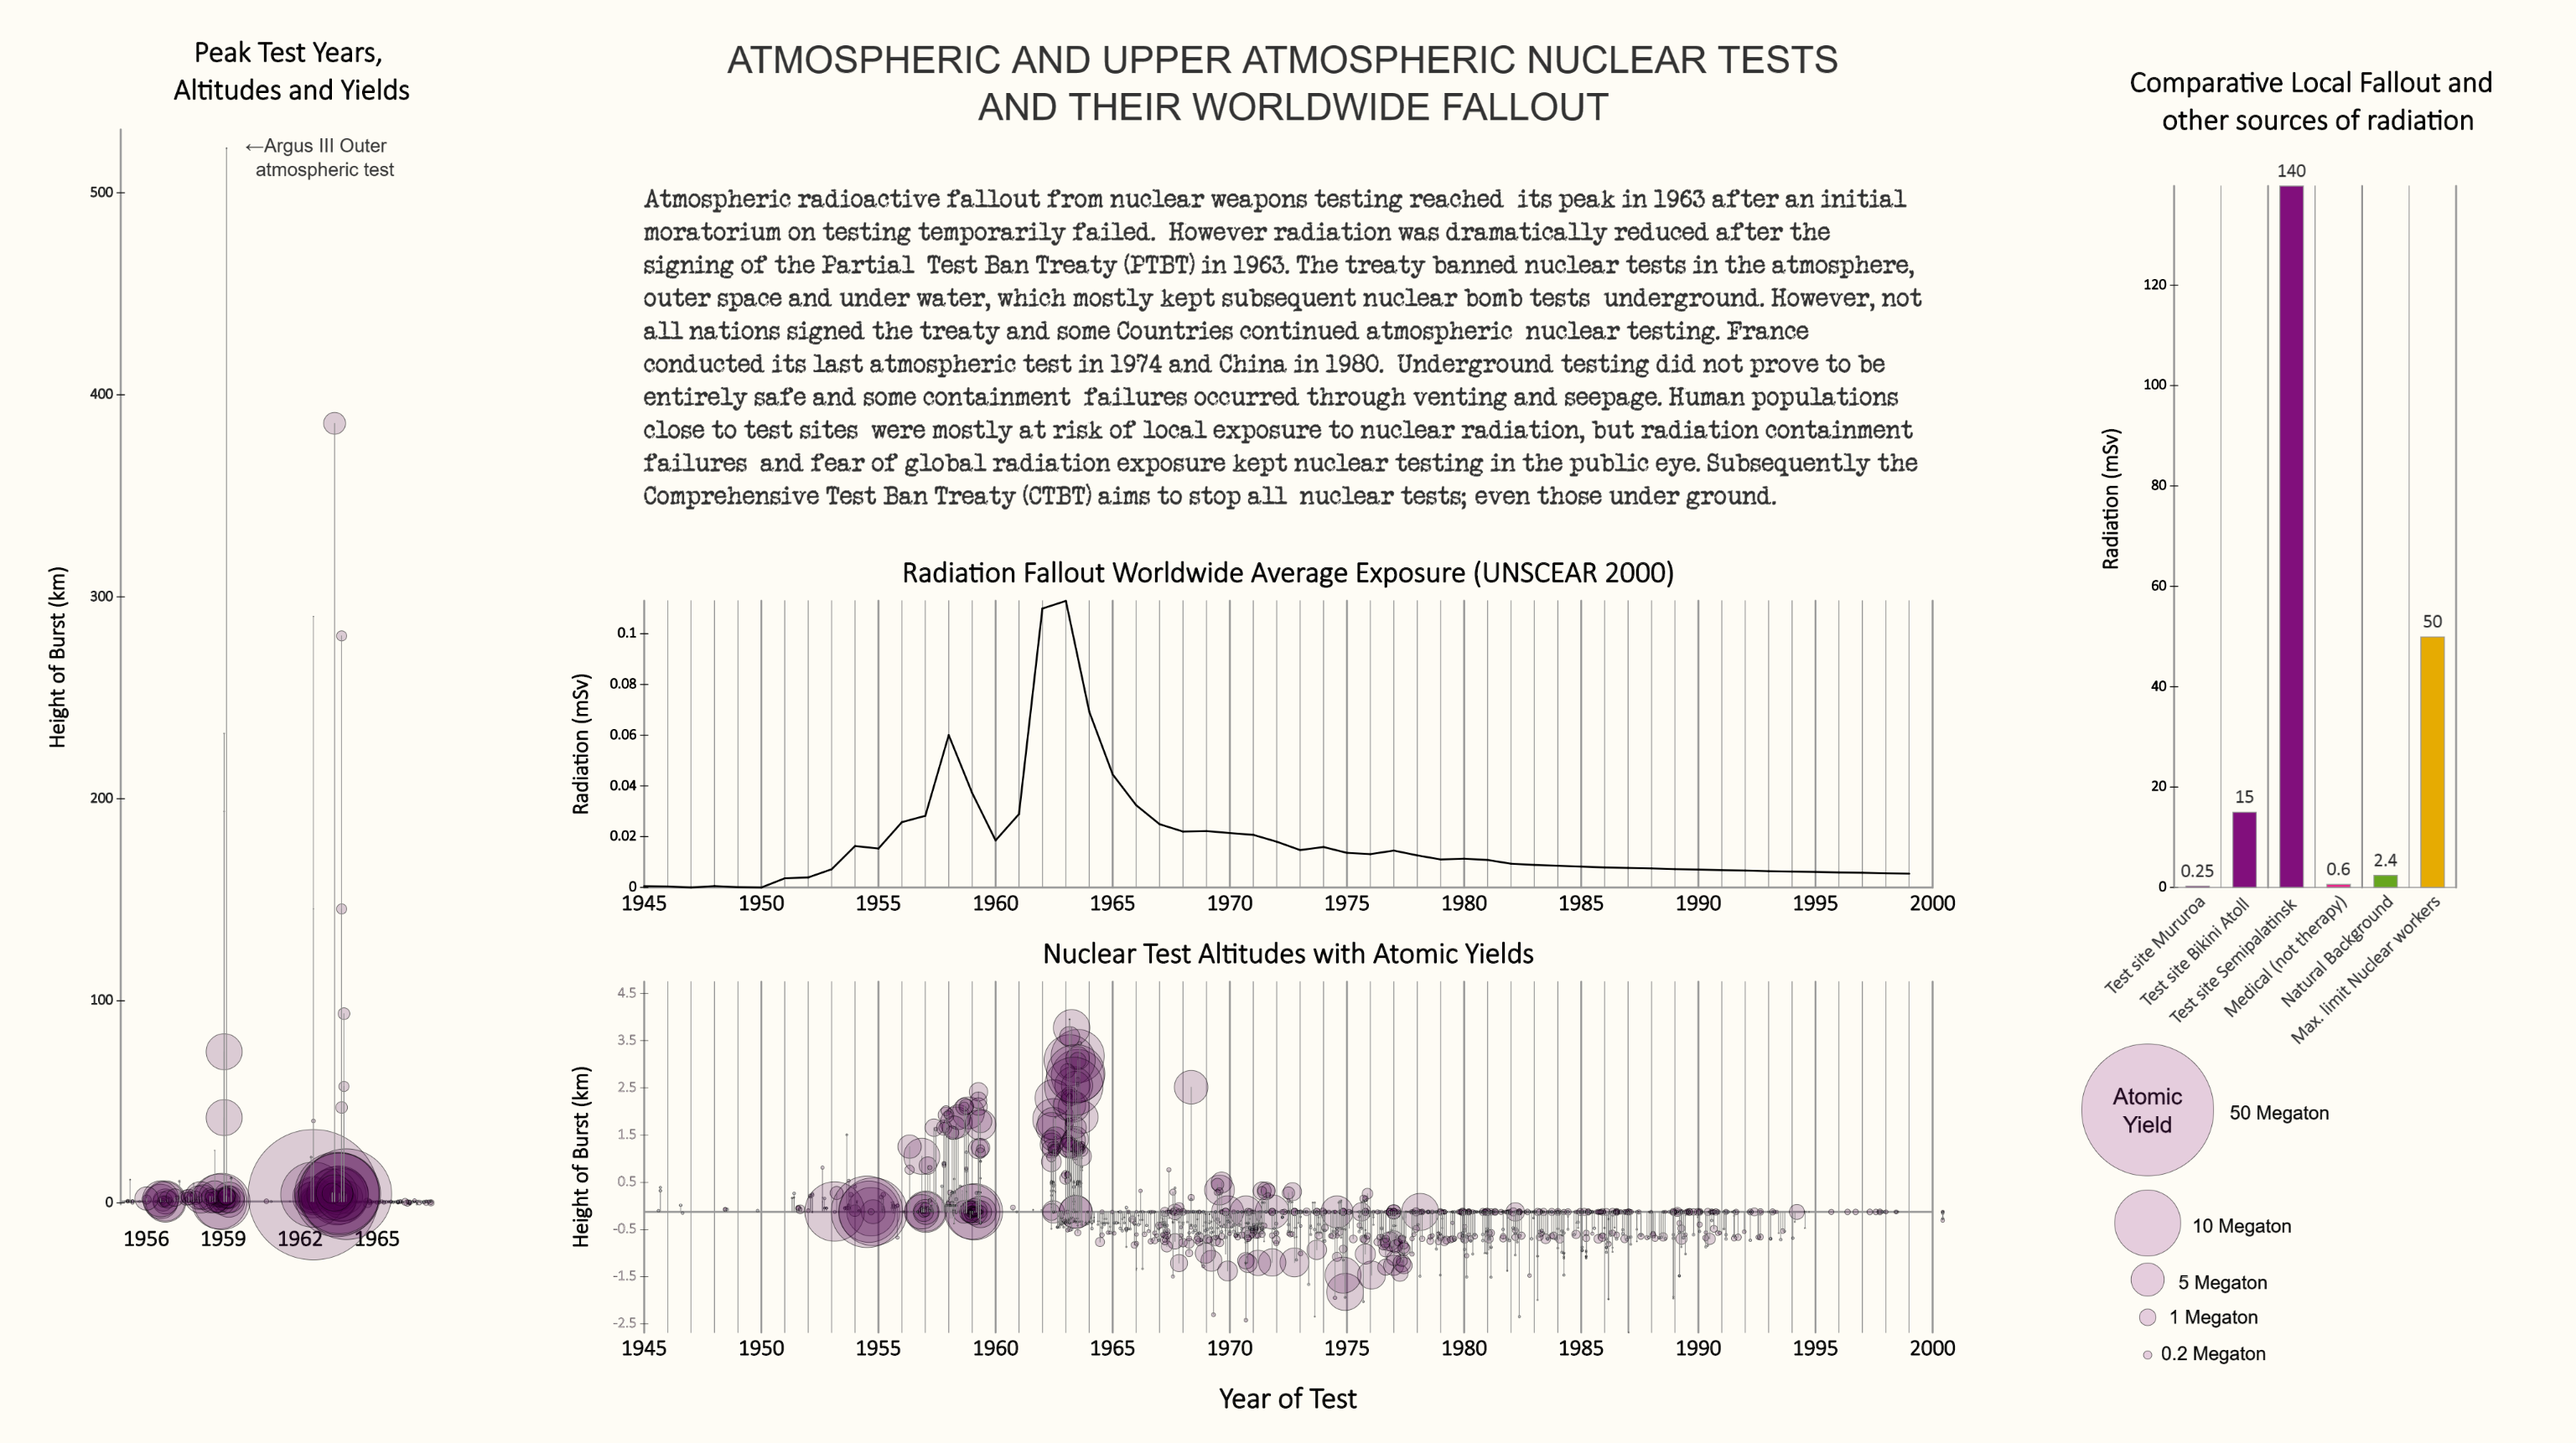
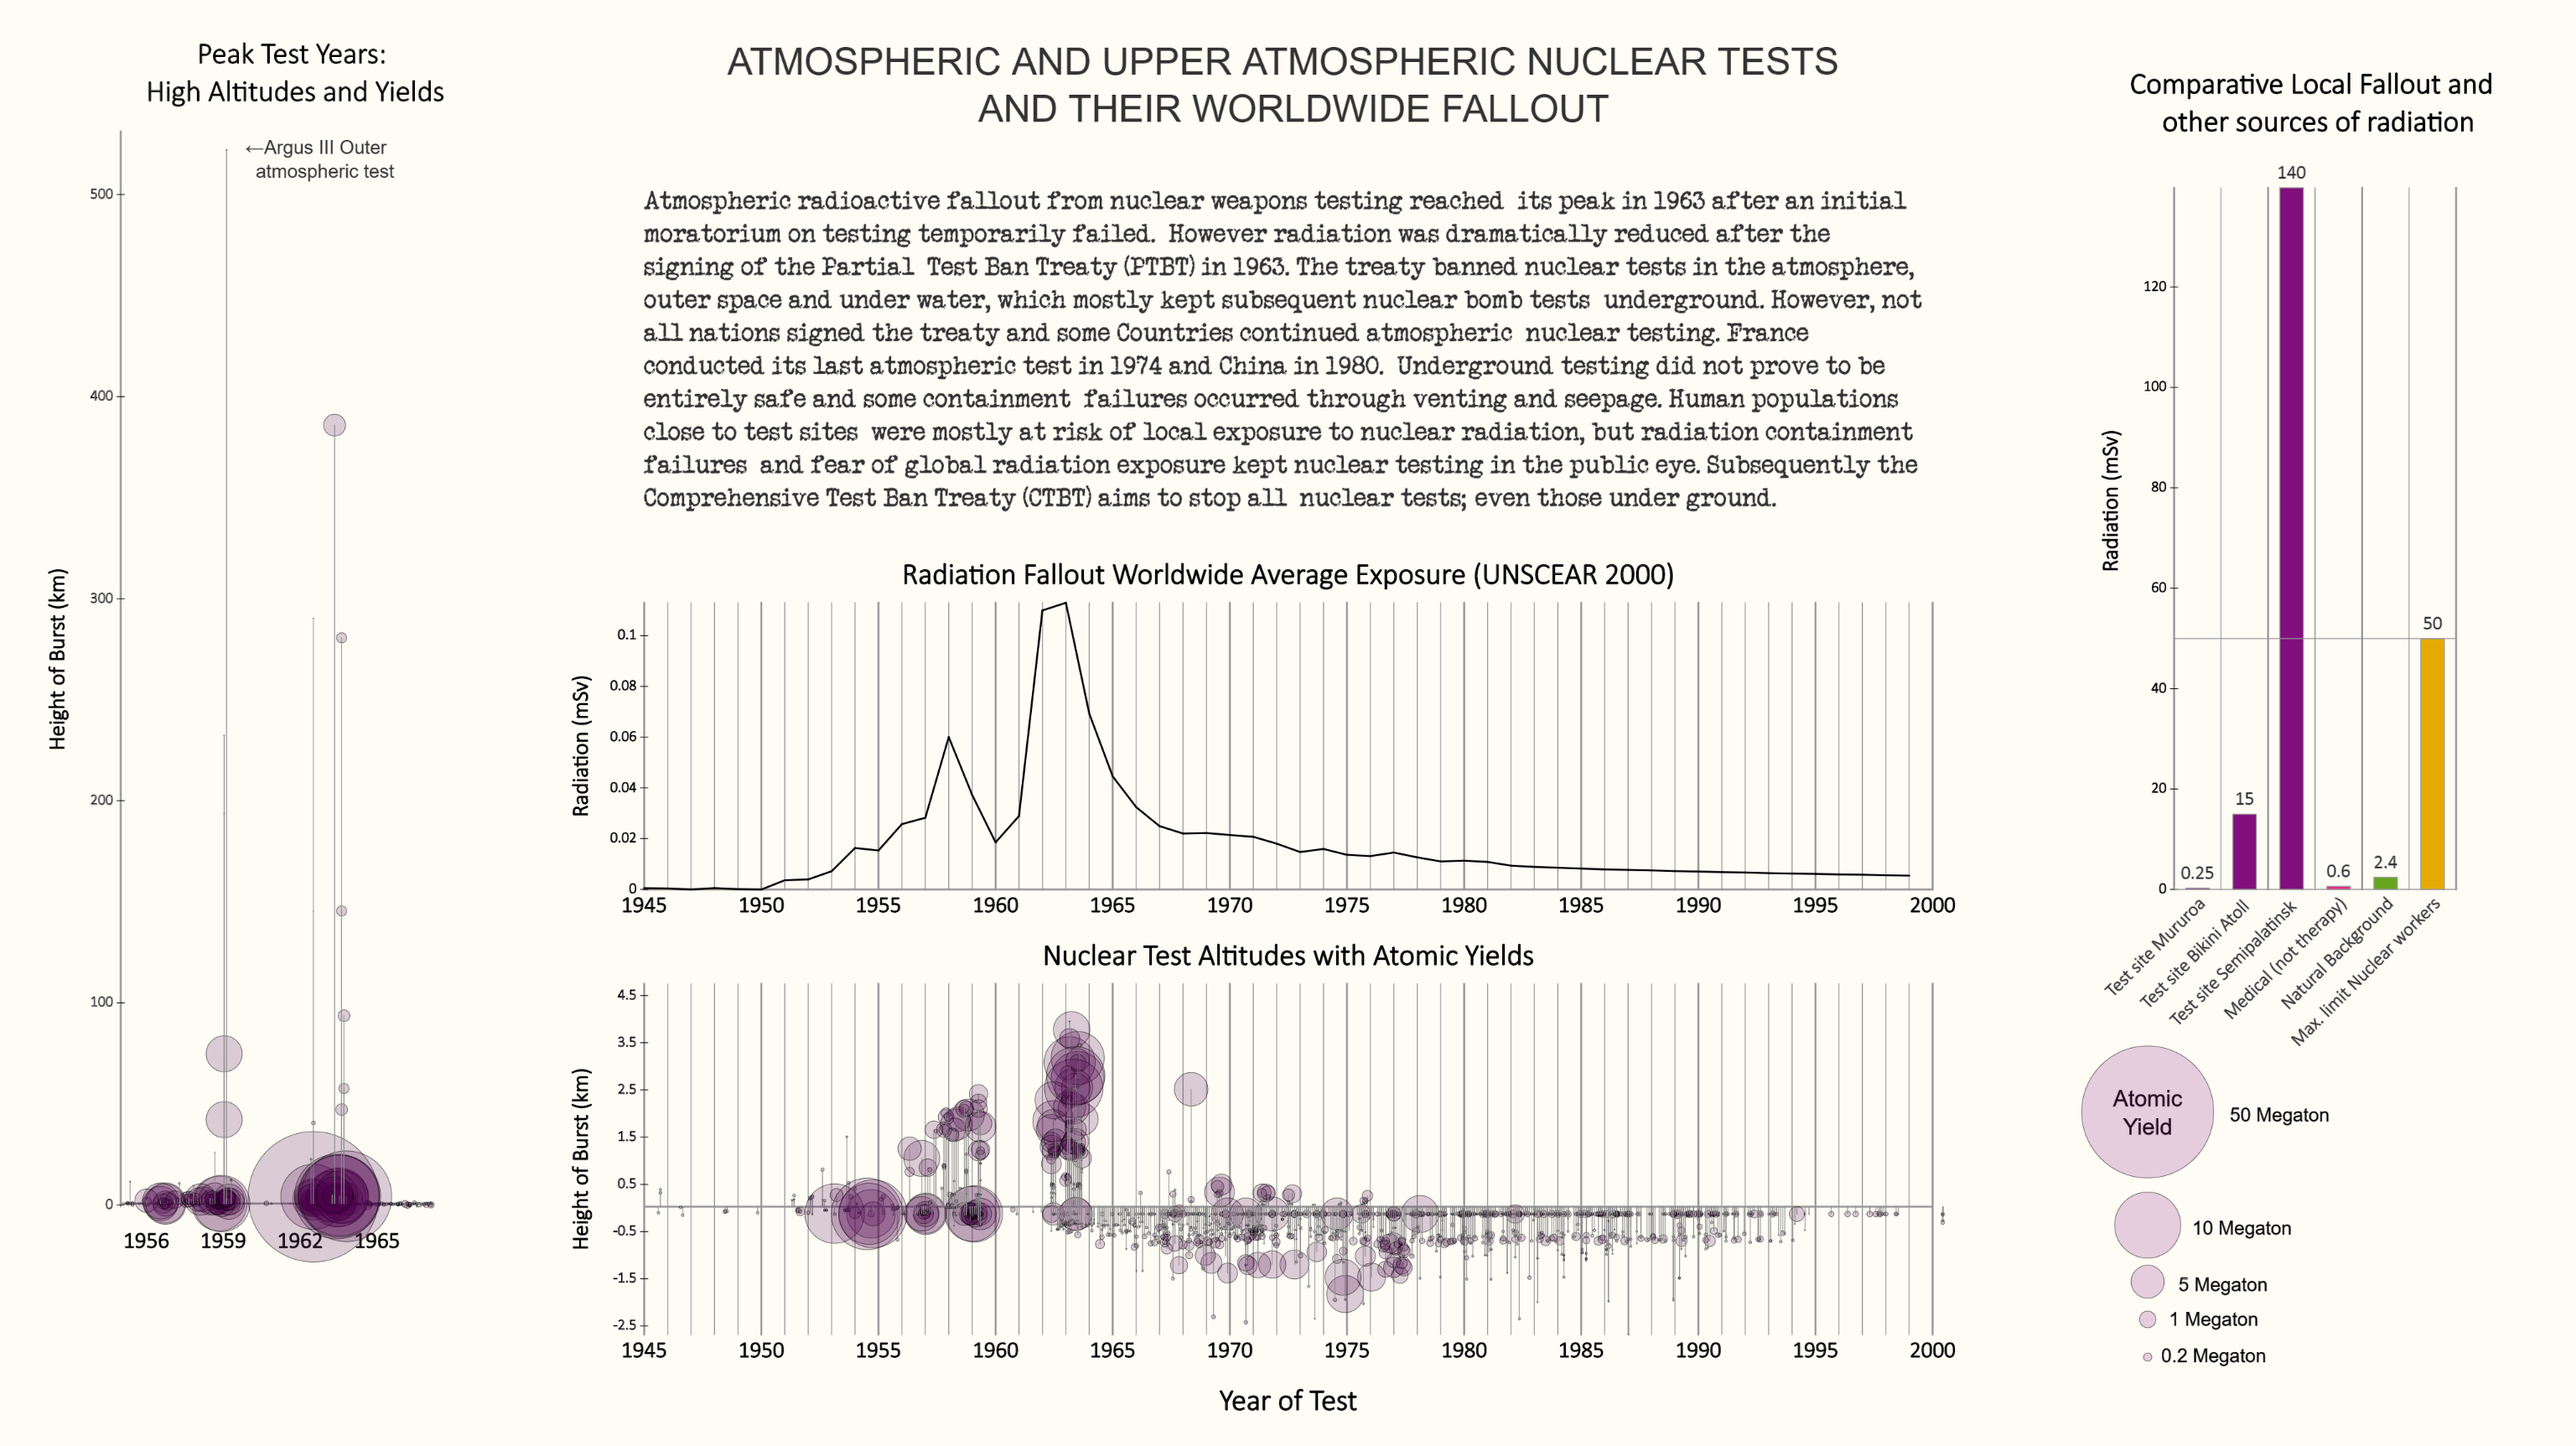
Final polishing

diff --git a/2.mapping-quantities/project/project-offTheCharts.js b/2.mapping-quantities/project/project-offTheCharts.js
@@ -420,7 +420,7 @@ function bubblePlot(tabinput, varName1, varName2, varName3, varName4, x, y, plot
 
 
   // if (zeroratio){
-  let yzero = y - map(0, miny1, maxy1, 0, plotheight-ypadding1*2)
+  let yzero = y - map(0, miny1, maxy1, 0, plotheight-ypadding1*1)
   // }
   // else { 
   //   let yzero = y- ypadding1;
@@ -719,8 +719,12 @@ function setup() {
 
   // print(pallet)
   //    (tabinput,             colName,               x,  y, wdth, hgt, zerorat   scal    scal,  offset,strkWght, strkClr, palette)
+    stroke(0);
+  fill(0);
   bubblePlot(below3000m, "YEAR", "HOB", "YIELD", "MON_NUM", xx, yy, ww, hh, 1, yscale, szescale, 0, 0.2, '#000', palette)
-  yaxistics(below3000m, "YEAR", "HOB", xx, yy, ww, hh, 1000,360/2,0.001,0.2 ,"#000",8)
+    strokeWeight(1);
+  stroke(0);
+  yaxistics(below3000m, "YEAR", "HOB", xx, yy, ww, hh, 1000,360/2,0.001,0.4 ,"#000",8)
 
 
 
@@ -752,7 +756,7 @@ function setup() {
   // linegraph(table,"NH_Inhalation",xx,yy,ww,hh,bb,0,1,'#ggg')
   linegraph(table, "WorldTotal", xx, yy, ww, hh, bb, 0, 1, '#000')
     //                                                 scale  stroke strkclr
-  yaxistics(table, "Year", "WorldTotal", xx, yy, ww, hh, 20, 0,0.001,0.5 ,"#000",8)
+  yaxistics(table, "Year", "WorldTotal", xx, yy, ww, hh, 20, 0,0.001,0.4 ,"#000",8)
   //"Year", "NH_External", "NH_Ingestional", "NH_Inhalation", "NH_Total", 
   // "SH_External", "SH_Ingestional", "SH_Inhalation", "SH_Total", 
   //"WorldExternal", "WorldIngestiona", "WorldInhalation", "WorldTotal"
@@ -787,7 +791,7 @@ function setup() {
   textSize(16);
   stroke(0);
   fill(0);
-  text('Peak Test Years, \nAltitudes and Yields', (xb + ww / 2 + xb/4), yy - hh -16 - ypadding1);
+  text('Peak Test Years:\n High Altitudes and Yields', (xb + ww / 2 + xb/4), yy - hh -16 - ypadding1);
   xaxislabel(highyears, "YEAR", xx, yy + ypadding1*2, ww, hh, 12, 0, 1, '#e00', majorint);
   yaxislabel('Height of Burst (km)', xx-25, yy, ww, hh, 12);
   //         data   value            x  y  w  h  scl       or  strW  str   fill   palette        
@@ -796,9 +800,12 @@ function setup() {
   bubblePlot(gapHighyears, "YEAR", "HOB", "YIELD", "MON_NUM", xx, yy, ww, hh, 0, yscale, szescale, 0, 0.2, '#000', palette)
 
   // bubblePlot(below3000m, "YEAR","HOB","YIELD","MON_NUM", xx, yy, ww, hh, 1    , yscale ,szescale, 0,    0.2,      '#000',   palette)
-  yaxistics(gapHighyears, "YEAR", "HOB", xx, yy, ww, hh, 100000, 1375/2,0.001,0.5 ,"#000",8)
+  yaxistics(gapHighyears, "YEAR", "HOB", xx, yy, ww, hh, 100000, 1375/2,0.001,0.4 ,"#000",8)
+  stroke('#999');
+  // var thislimit = 50;
+  // line(xx,yy-thislimit,xx+ww,yy-thislimit)
 
-
+  // stroke(0);
 
 
 
@@ -834,13 +841,15 @@ function setup() {
   textAlign(RIGHT);
   // xaxislabel(otherExposures, "Years", xx, yy+ypadding1, ww, hh, 12, 0, 1, '#e00',5)
   yaxislabel('Radiation (mSv)', xx-25, yy, ww, hh, 12)
-  yaxistics(otherExposures, "Place", "mSv", xx, yy, ww, hh -ypadding2, 20, 0,1,0.5 ,"#000",8)
+  yaxistics(otherExposures, "Place", "mSv", xx, yy, ww, hh -ypadding2, 20, 0,1,0.4 ,"#000",8)
   
   
   print("Otherexposures " + otherExposures)
   barplotColumn(otherExposures, "mSv", xf, yd, ww, hh -ypadding2, bb, 0.5, '#e00')
   // barplotColumn(table,"WorldIngestiona",xx,yy,ww,hh,bb,1,'#0e0')
   // barplotColumn(table,"WorldInhalation",xx,yy,ww,hh,bb,2,'#00e')
+  var thislimit = 133;
+  line(xx,yy-thislimit,xx+ww,yy-thislimit)
 
 
 
@@ -950,7 +959,7 @@ legendnew(xe,ye)
 
 annotations();
 
-  save('mysketch.svg')
+  // save('mysketch.svg')
 
 }
 
